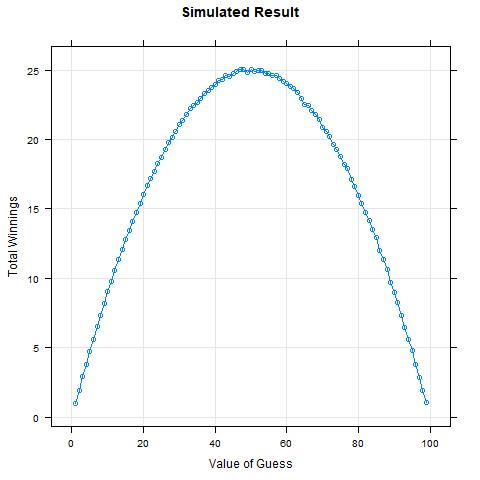
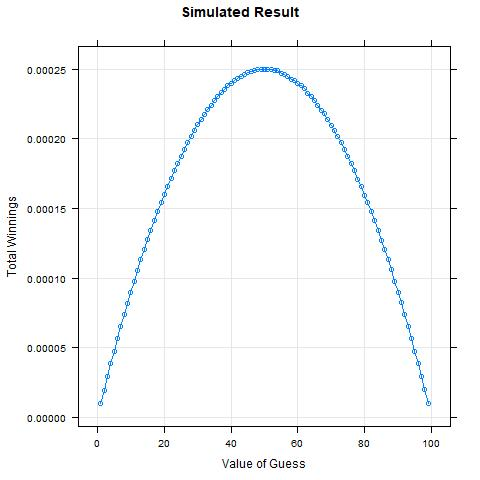
updated

diff --git a/index.html b/index.html
@@ -80,7 +80,7 @@ So, now let's simulate and verify this thinking is accurate.
 
 <pre>
 <code>
-fife <- function(guess, k = 100000){
+fife <- function(guess, k = 1000000){
 	value <- runif(k,0,100)
 	win <- guess < value
 	mean(win) * guess
